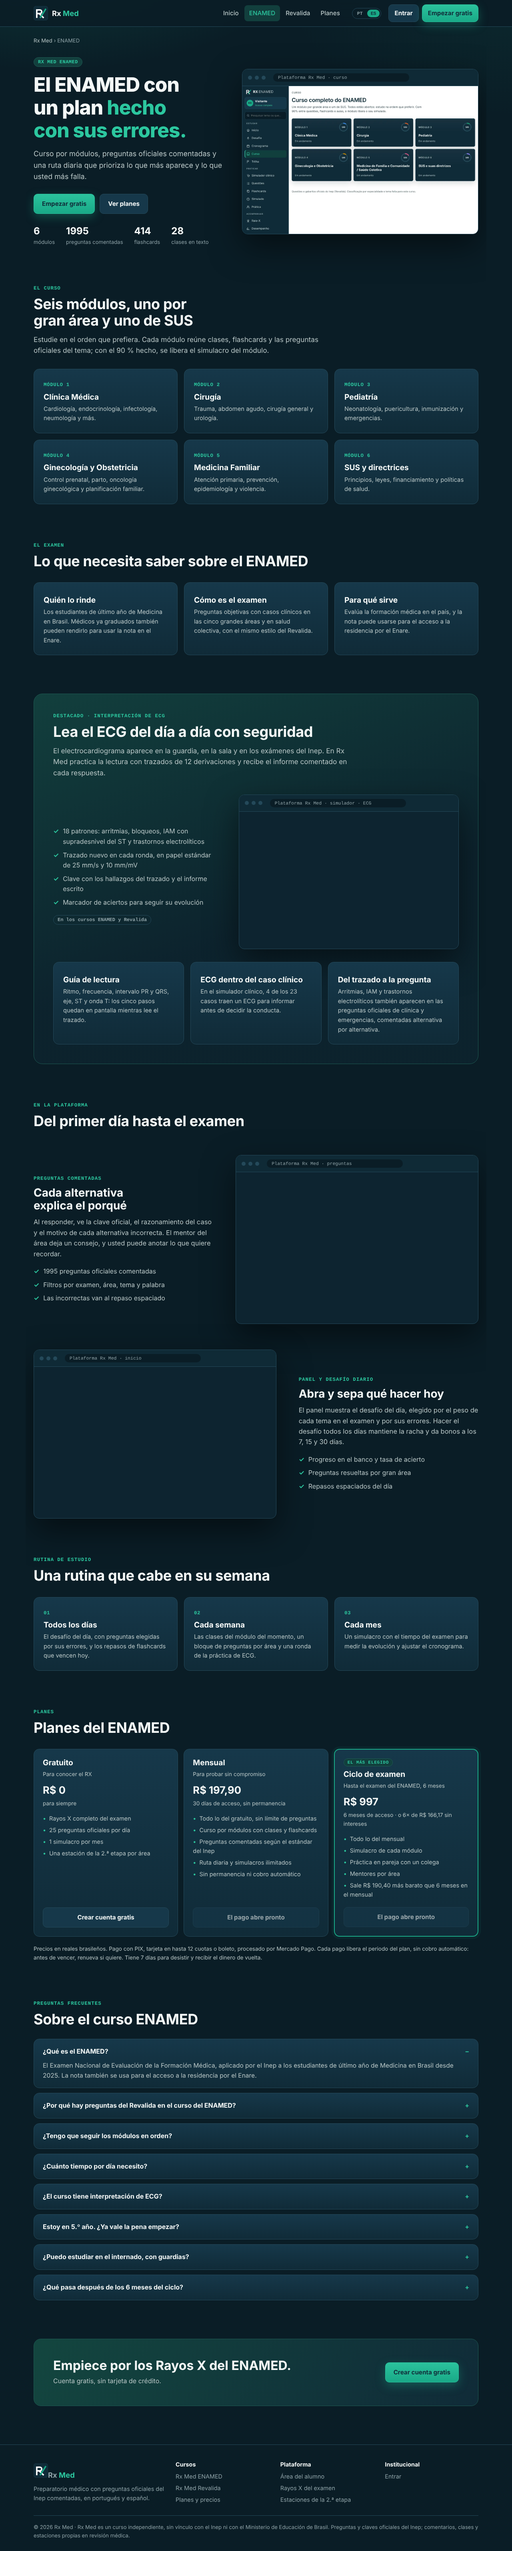
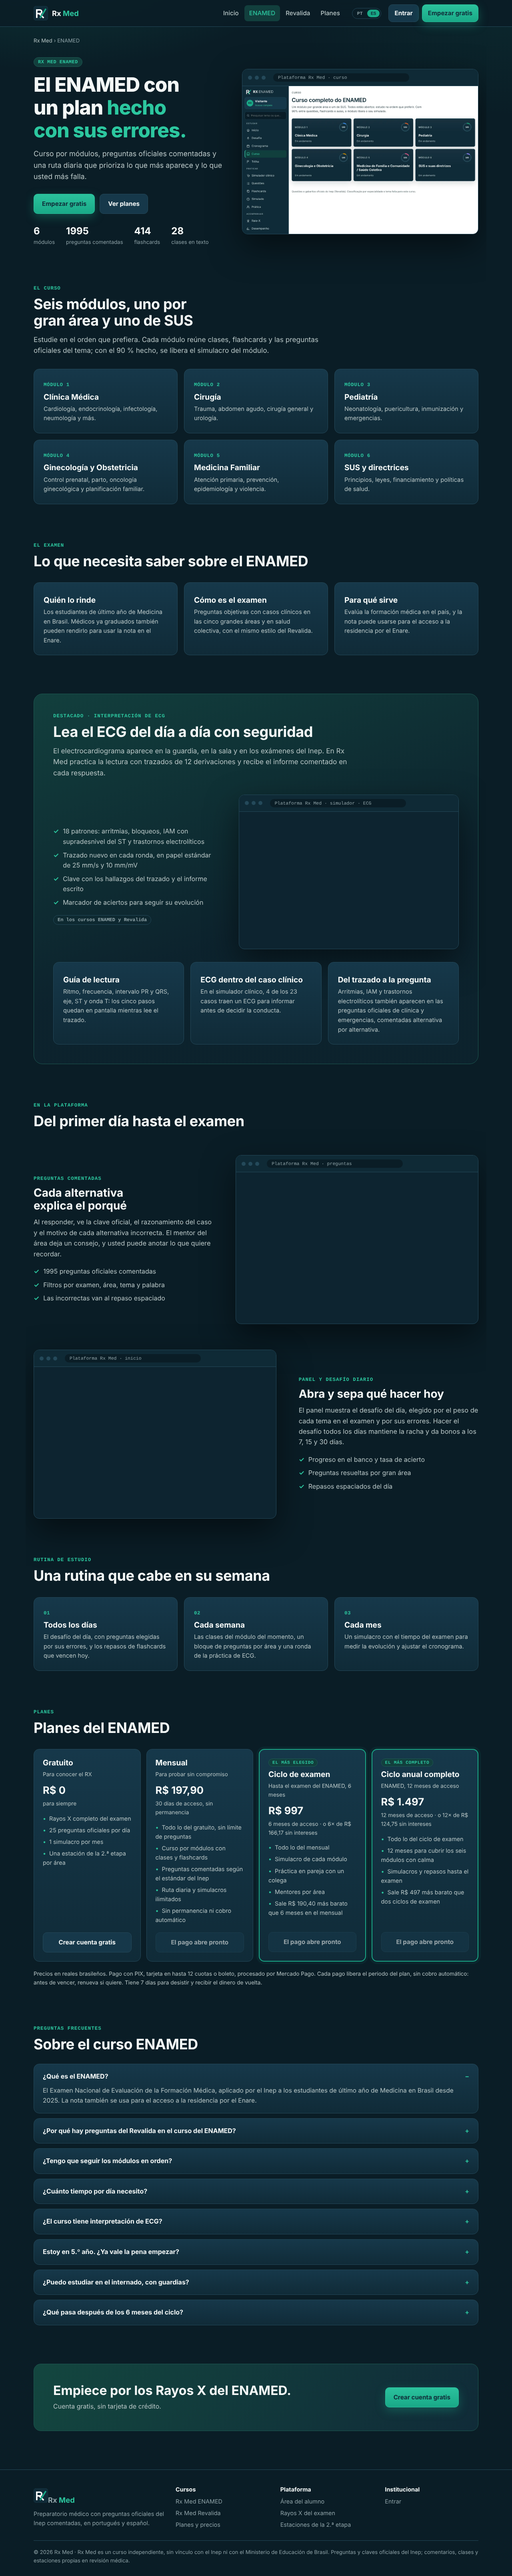
Plano Ciclo anual completo do ENAMED por R$ 1.497 (12 meses, até 12×)
- Novo plano anual-enamed em conteudo/planos.json (12 meses de acesso)
- Aparece nas páginas ENAMED, Planos e na grade da página inicial (3 colunas)
- Nome do plano no perfil do aluno e no admin
- Teste do site confere o novo preço

Claude-Session: https://claude.ai/code/session_01XC3RWuP12k3CEFXbjwtph3

diff --git a/servidor/web/admin.js b/servidor/web/admin.js
@@ -4,7 +4,7 @@ import { faculdades } from './faculdades.js';
 const ETAPAS = { 1: '1º ano', 2: '2º ano', 3: '3º ano', 4: '4º ano', 5: '5º ano (internato)', 6: '6º ano (internato)', formado: 'Formado no Brasil', exterior: 'Formado no exterior' };
 const SEXO = { masculino: 'Masculino', feminino: 'Feminino' };
 
-const NOMES = { mensal: 'Mensal', ciclo: 'Ciclo de prova', 'segunda-etapa': '2ª etapa', anual: 'Anual completo' };
+const NOMES = { mensal: 'Mensal', ciclo: 'Ciclo de prova', 'anual-enamed': 'Ciclo anual completo (ENAMED)', 'segunda-etapa': '2ª etapa', anual: 'Anual completo' };
 const SIT = { ativo: 'Ativo', vencendo: 'Vencendo', expirado: 'Inativo', gratuito: 'Gratuito' };
 const STATUS = { aprovado: 'Aprovado', pendente: 'Pendente', recusado: 'Recusado', reembolsado: 'Reembolsado', expirado: 'Expirado', cancelado: 'Cancelado', contestado: 'Contestado' };
 const metodo = (m, n) => (m === 'cartao' ? `Cartão${n > 1 ? ` ${n}×` : ''}` : m.toUpperCase());

diff --git a/app/src/telas/Perfil.jsx b/app/src/telas/Perfil.jsx
@@ -9,7 +9,7 @@ import { ultimaResposta } from '../progresso.js';
 import { t, idiomaAtual } from '../i18n.js';
 import { CartaoIndique } from './Indique.jsx';
 
-const NOMES_PLANO = { mensal: 'Mensal', ciclo: 'Ciclo de prova', 'segunda-etapa': '2ª etapa', anual: 'Anual completo' };
+const NOMES_PLANO = { mensal: 'Mensal', ciclo: 'Ciclo de prova', 'anual-enamed': 'Ciclo anual completo (ENAMED)', 'segunda-etapa': '2ª etapa', anual: 'Anual completo' };
 const DIAS = ['Dom', 'Seg', 'Ter', 'Qua', 'Qui', 'Sex', 'Sáb'];
 
 export default function Perfil() {
